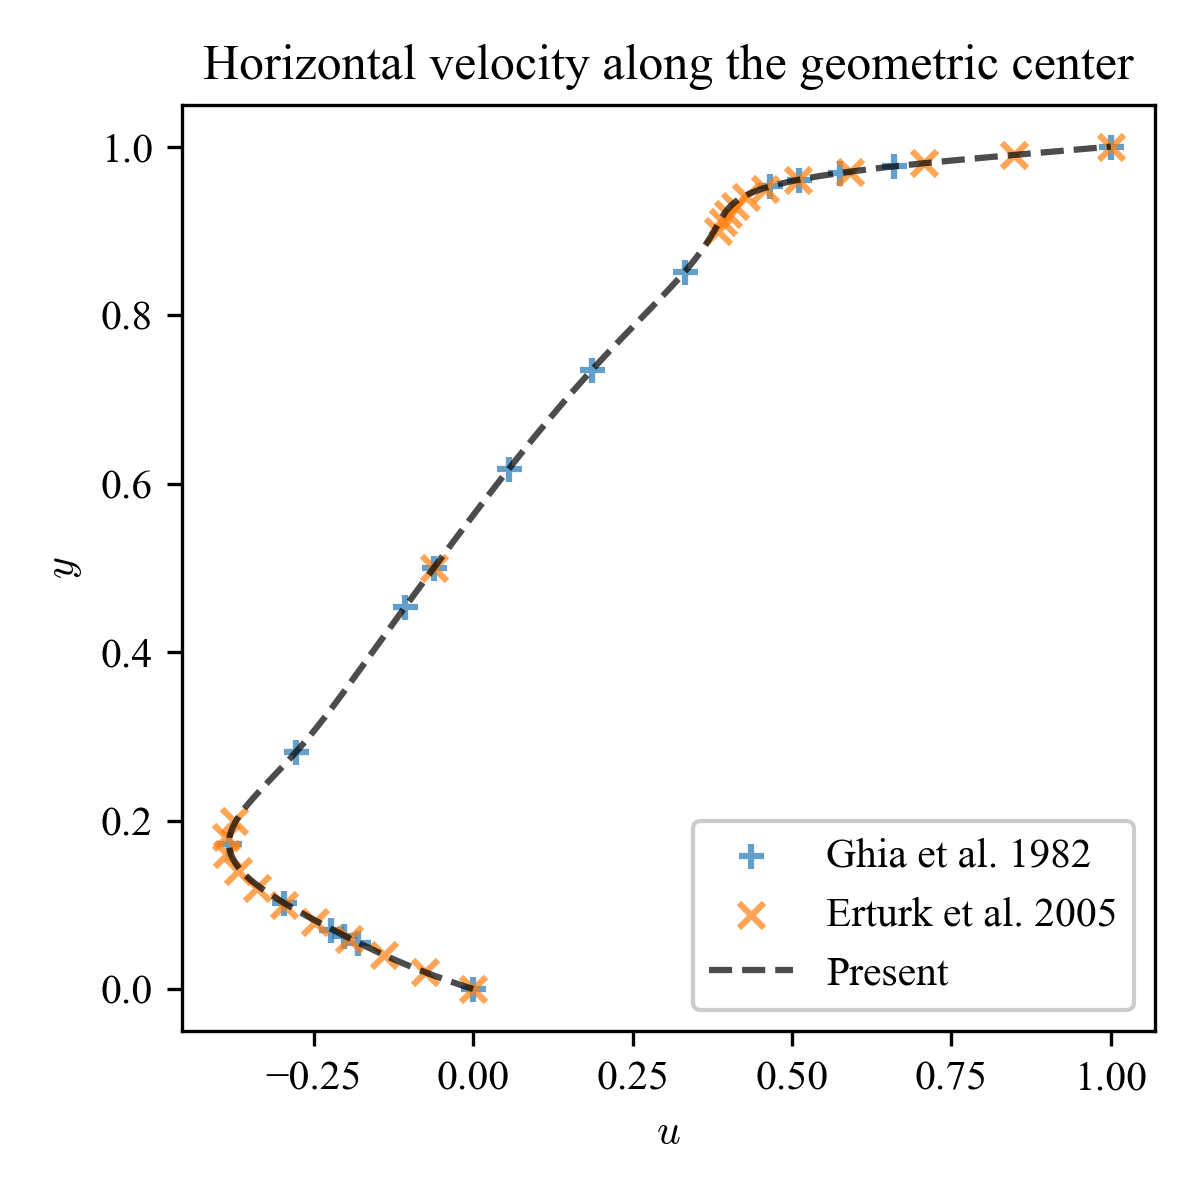
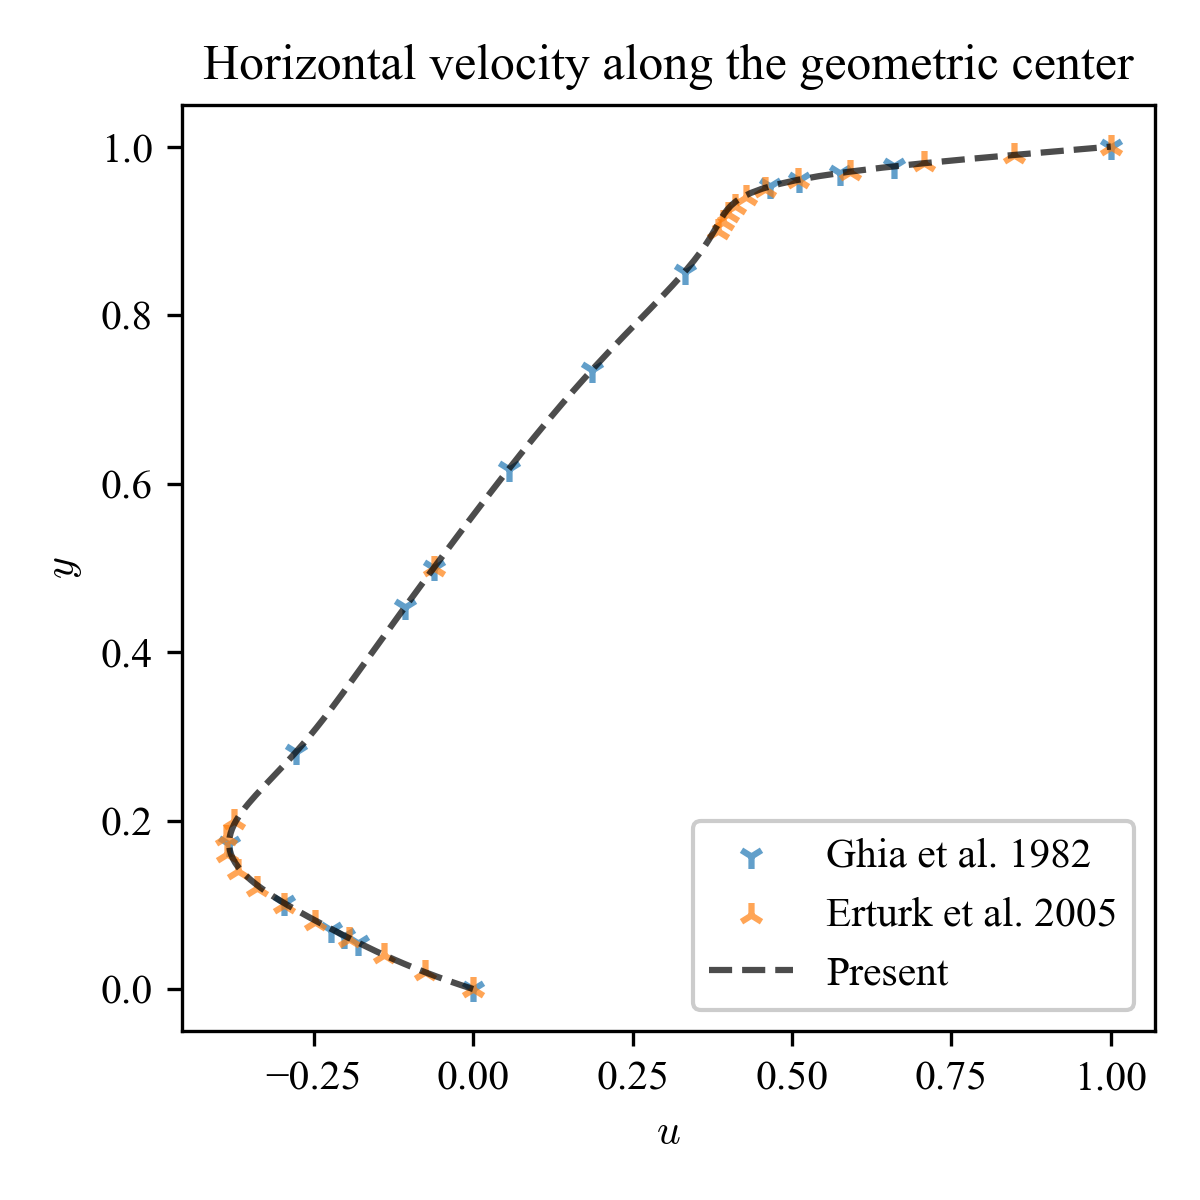
update Lax-Wendroff

diff --git a/01_Arakawa_B/01_Lax_Wendroff/main.py b/01_Arakawa_B/01_Lax_Wendroff/main.py
@@ -381,8 +381,8 @@ def main():
 
             # compare with reference solutions
             plt.figure(figsize=(4, 4))
-            plt.scatter(df_Ghia["u"],   df_Ghia["y"],   alpha=.7, marker="+", label="Ghia et al. 1982")
-            plt.scatter(df_Erturk["u"], df_Erturk["y"], alpha=.7, marker="x", label="Erturk et al. 2005")
+            plt.scatter(df_Ghia["u"],   df_Ghia["y"],   alpha=.7, marker="1", label="Ghia et al. 1982")
+            plt.scatter(df_Erturk["u"], df_Erturk["y"], alpha=.7, marker="2", label="Erturk et al. 2005")
             plt.plot(u[:, int(Ny/2)], y, alpha=.7, color="k", ls="--", label="Present")
             plt.legend(loc="lower right")
             plt.xlabel(r"$u$")
@@ -394,8 +394,8 @@ def main():
             plt.close()
 
             plt.figure(figsize=(4, 4))
-            plt.scatter(df_Ghia["x"],   df_Ghia["v"],   alpha=.7, marker="+", label="Ghia et al. 1982")
-            plt.scatter(df_Erturk["x"], df_Erturk["v"], alpha=.7, marker="x", label="Erturk et al. 2005")
+            plt.scatter(df_Ghia["x"],   df_Ghia["v"],   alpha=.7, marker="1", label="Ghia et al. 1982")
+            plt.scatter(df_Erturk["x"], df_Erturk["v"], alpha=.7, marker="2", label="Erturk et al. 2005")
             plt.plot(x, v[int(Nx/2), :], alpha=.7, color="k", ls="--", label="Present")
             plt.legend(loc="upper right")
             plt.xlabel(r"$x$")
